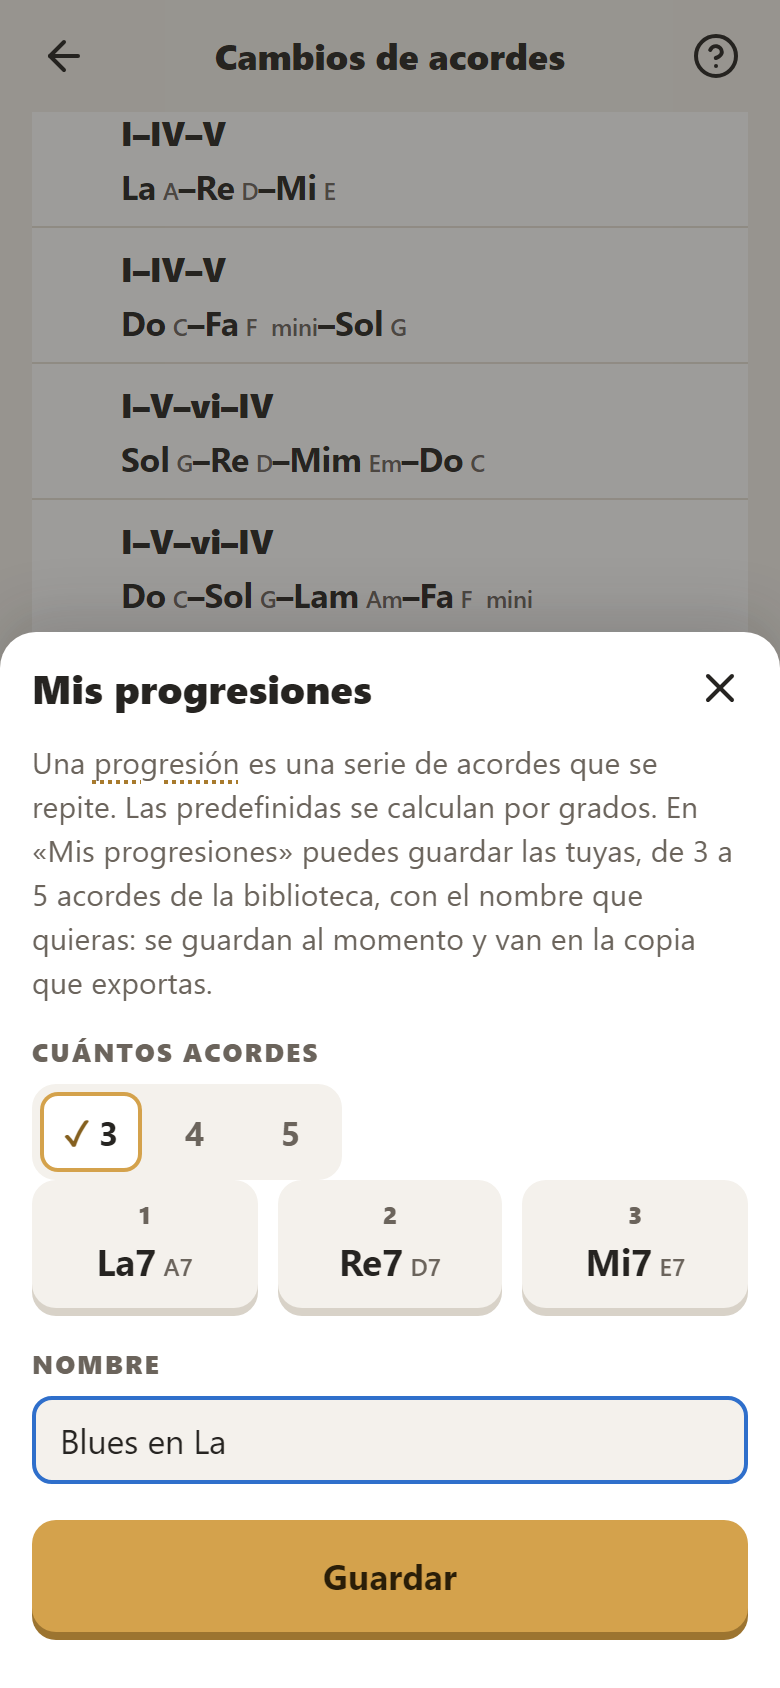
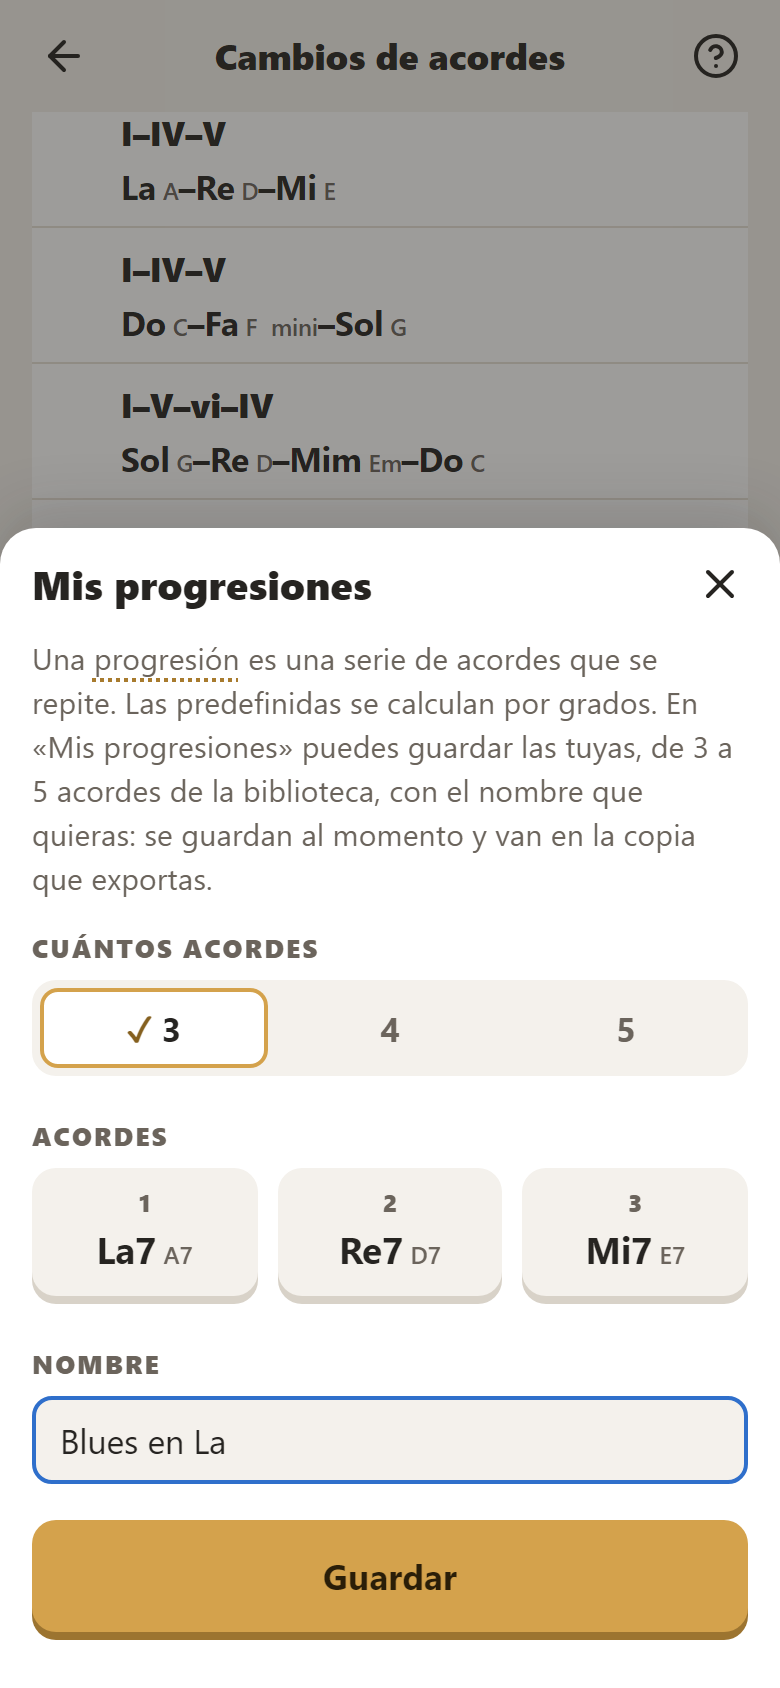
Fase 3 (arreglo): separación en el editor de Mis progresiones

diff --git a/css/styles.css b/css/styles.css
@@ -1225,3 +1225,7 @@ p { margin: 0 0 .75em; }
 .chord-ref__fn { color: var(--text-muted); text-align: right; }
 .cd-open--fn { stroke: var(--dot); stroke-width: 3.5; }
 .warmup .practice__actions { position: sticky; bottom: 0; z-index: 2; margin-top: auto; padding: 10px 0 calc(10px + env(safe-area-inset-bottom)); background: var(--bg); }
+.prog-editor .sheet__section { margin-top: 22px; }
+.prog-editor .sheet__section:first-of-type { margin-top: 16px; }
+.prog-editor .segmented { display: flex; }
+.prog-editor .segmented button { flex: 1; }

diff --git a/js/screens/setup-options.js b/js/screens/setup-options.js
@@ -116,6 +116,7 @@ export function openProgressionEditor({ existing = null, onSaved }) {
         options: CUSTOM_PROGRESSION_SIZES.map((n) => ({ value: n, label: String(n) })),
         onChange: (n) => { state.size = n; draw(); },
       }),
+      h('h3', { class: 'sheet__section' }, T.slotsLabel),
       h('div', { class: 'prog-slots' }, Array.from({ length: state.size }, (_, i) => {
         const chord = state.chords[i] ? getChord(state.chords[i]) : null;
         return h('button', {

diff --git a/js/data/concepts.js b/js/data/concepts.js
@@ -1384,6 +1384,7 @@ export const UI_TEXTS = Object.freeze({
     deleteText: 'Se borrará de «Mis progresiones». No se puede deshacer.',
     editorTitle: 'Mis progresiones',
     howMany: 'Cuántos acordes',
+    slotsLabel: 'Acordes',
     nameLabel: 'Nombre',
     namePlaceholder: 'Por ejemplo, Blues o Country',
     pickChord: 'Elige un acorde',

diff --git a/js/version.js b/js/version.js
@@ -1,6 +1,6 @@
 // Versión visible en Ajustes y en Perfil → Acerca de: v0.N.x = fase N (1A = 0.1.0, 1B = 0.1.1, 2 = 0.2.0, 3 = 0.3.0).
 // Se sube en cada despliegue junto a CACHE_VERSION (sw.js).
-export const APP_VERSION = '0.3.0';
+export const APP_VERSION = '0.3.1';
 
 export const APP_NAME = 'GuitarSeo';
 

diff --git a/sw.js b/sw.js
@@ -1,6 +1,6 @@
 // Service worker: guarda la app para usarla sin conexión.
 // Incrementa CACHE_VERSION en cada despliegue que cambie archivos de la app.
-const CACHE_VERSION = 5;
+const CACHE_VERSION = 6;
 const CACHE_PREFIX = 'myguitarapp-';
 const CACHE_NAME = `${CACHE_PREFIX}v${CACHE_VERSION}`;
 

diff --git a/BUILD_PLAN.md b/BUILD_PLAN.md
@@ -1518,3 +1518,4 @@ Propuestas de mejora. Las pendientes se preguntan al usuario al llegar a su fase
 | 2026-11-02 | 1B | Mástil SVG (vertical y horizontal, automático o forzado, cuerdas graduadas, cejuela, marcas, doble notación en los puntos, zonas táctiles de 58×50) y diagrama de acorde (dedos, o, ×, cejilla); `data/chords.js` con la tabla 5.1 y su test (adelantado de la Fase 3, solo datos); audio: contexto creado en el primer toque, `audioSession = playback` o `<audio>` silencioso en bucle en iPhones antiguos, Karplus-Strong con filtro paso bajo, rasgueo (25 ms) y arpegio; planificador con lookahead (25 ms / 100 ms, sin ráfagas al volver de segundo plano); metrónomo 30–240 BPM, 2–7 tiempos, negras/corcheas/tresillos; herramienta **Metrónomo** con −/+ (pulsación larga), deslizador, marcar el tempo tocando (media de 4 intervalos, se reinicia tras 2 s), Wake Lock y ajustes recordados; fila Herramientas en Inicio; concepto «Metrónomo, tempo y BPM» con esquema de pulsos; esquemas calculados en las 14 fichas de la 1A (leyenda escrita en todo lo resaltado con color); voz es-ES/en-US; registro de ejercicios validado; motores de Teoría y de Práctica (pausa con el «?», cuenta atrás, guía de ritmo, posiciones 3 s, duración con «Sin límite», metrónomo opcional); preparación con duración, metrónomo y «Preguntar antes de cada ejercicio»; resumen con frase según el porcentaje, fallos con «¿Por qué?» y confeti; registro de sesiones, estadísticas, récords, racha y «Continuar»; Perfil con racha; página de prueba `#/dev` con dos ejercicios de prueba. Cambios al plan: esquema de datos v3 (`tools`), colores de función del tema claro algo más oscuros (4.5), CAGED en la fase 8 y sesión mezclada en la 9 (`modules.js`), estructura de carpetas (3). | Aceptadas todas las propuestas de la 1B (ejercicios de prueba en `#/dev` que cuentan en Perfil, adelantar `chords.js`, esquemas de las fichas, comportamientos sin definir). Pendiente de comprobar en el iPhone: sonido real, modo silencio, voz, Wake Lock y pulso del metrónomo. |
 | 2026-11-02 | 2 | Módulo **Notas del mástil**: componente de lección por tarjetas (6.6.4: barra segmentada, Anterior/Siguiente, deslizar, "Ir a los ejercicios" y lección completada) con la lección de Notas en 6 tarjetas con esquema interactivo; Consulta con el mástil 0–12 y filtro por nota; 7 ejercicios de Teoría ("¿Qué nota es?", "Encuéntrala", "Todas en una cuerda", "Octavas", "Unísonos", "Rellena el mástil" con su motor y teclado de 12 notas, "Contrarreloj" de 60 s con récord) y 4 de Práctica ("Nota por todas las cuerdas", "Cuerda a cuerda", "Paseo de octavas" y "Unísonos", que hace sonar los dos puntos al enseñar la solución); estadísticas `note:s{cuerda}f{traste}`; récords de Contrarreloj y Rellena; conceptos nuevos "Unísono", "Regla de los 5 trastes (4 entre la 3ª y la 2ª)" y "Formas de octava", con esquemas calculados; motor de Teoría con respuesta tocando el mástil, consigna por pregunta y ronda por tiempo; opciones de elección en la preparación (Cuerdas, Cuerda); mástil `compact` y `dense` (6.3); se quitan los ejercicios de prueba de `#/dev`. Tests contra la teoría (MIDI, formas de octava de 4.3, regla de los 5 trastes) en las 7 afinaciones. Cambios al plan: decisiones de la Fase 2, ejemplo de Unísonos de Teoría corregido para que coincida con su tabla, estructura de carpetas (3), tamaños del mástil (6.3). | Aceptadas todas las propuestas de la Fase 2 (afinaciones, opción de cuerdas, toques múltiples, Octavas, Rellena, Contrarreloj, Práctica de 12 consignas, Consulta 0–12, quitar los ejercicios de prueba). |
 | 2026-11-03 | 3 | Módulo **Acordes abiertos**: lección en 5 tarjetas con diagramas coloreados por función (comparando Mi/Mim, La/Lam y La/La7); Consulta con la biblioteca, notas por función, rasgueado, arpegiado y "Ver en el mástil"; 5 ejercicios de Teoría ("¿Qué acorde es?", "Constrúyelo" con un diagrama editable, "¿Qué notas tiene?" con teclado de varias notas, "¿Mayor o menor?" y "¿Qué nota falta?"); progresiones predefinidas calculadas por grados y **Mis progresiones** (crear, editar y borrar, en la exportación); pantalla de práctica de acordes (6.6.12) con "Mostrar diagramas"; "Cambios de acordes", "Cambios en un minuto" (récord por pareja), "Acorde cantado" y **Rasgueo** (patrones de 5.6 con "Escuchar el patrón", acento y swing). **Calentamiento**: "Un dedo por traste" con tablatura, 4 variantes, subida automática de tempo (función del metrónomo), "Bajar" y récord. **Tablatura** completa (6.7): todos los símbolos, ritmo, partición en líneas, cursor, reproductor a 50/75/100 % y "Ver en el mástil", con sonido de cada técnica (curva de altura sobre la cuerda sintetizada). Glosario: 31 conceptos nuevos (Acordes, Ritmo y técnica, y Tablatura) con esquemas que suenan; marcado `{{chord:id}}`; deletreo por letra de las notas de un acorde. Tests contra la teoría (grados, fórmulas, MIDI, armónicos). Cambios al plan: decisiones de la Fase 3, patrones de Avanzado (5.6), esquema `strum` (6.8), estructura de carpetas (3). | Aceptadas todas las propuestas (una sola sesión; ejercicios de Teoría; progresiones; Acorde cantado; Cambios en un minuto; rasgueo sin voz; patrones con acento y swing; vuelta en espejo y araña; subida cada vuelta en Básico). |
+| 2026-11-03 | 3 (arreglo) | Editor de «Mis progresiones»: el selector de cuántos acordes ocupa todo el ancho y las casillas de los acordes llevan su propio título («Acordes») y más separación, para que no queden pegados. Versión 0.3.1. | Pedido por el usuario al probar la v0.3.0 en el iPhone. Pendiente para otro arreglo: en algunos ejercicios el sonido deja de oírse a partir de la segunda vez. |
